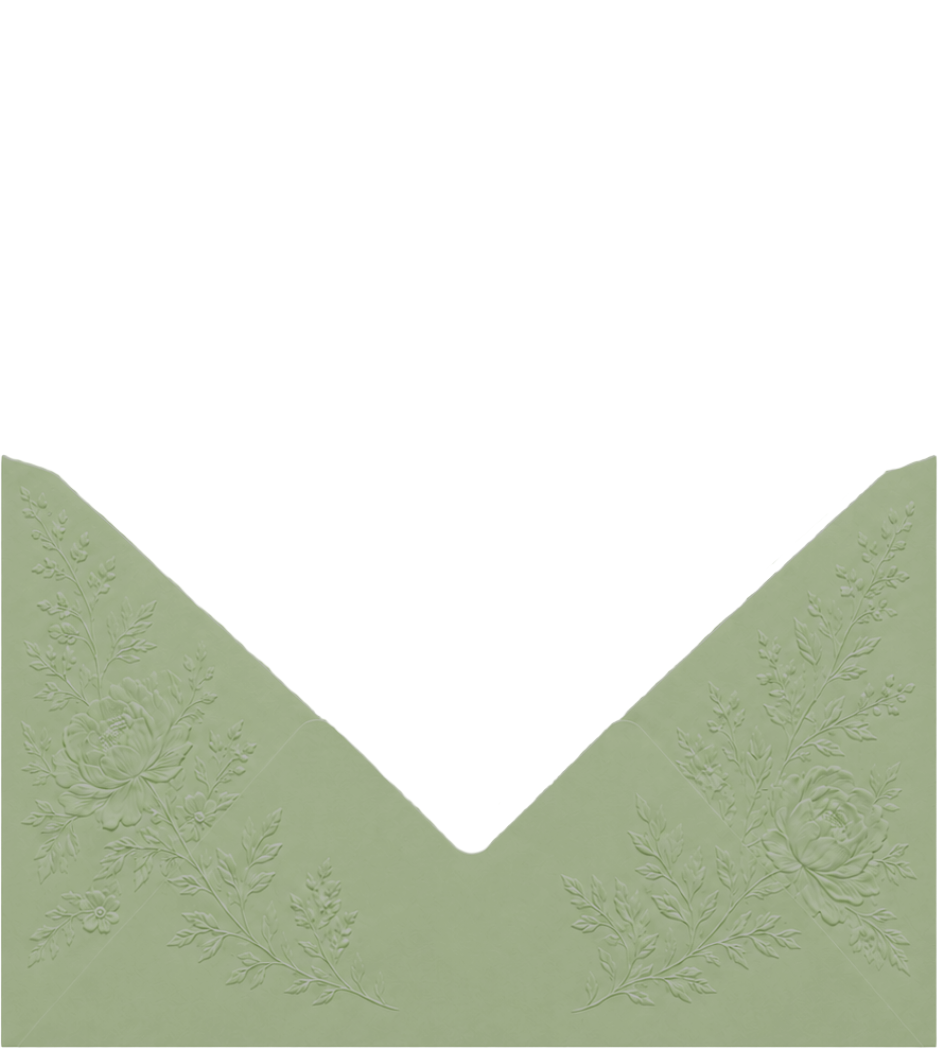
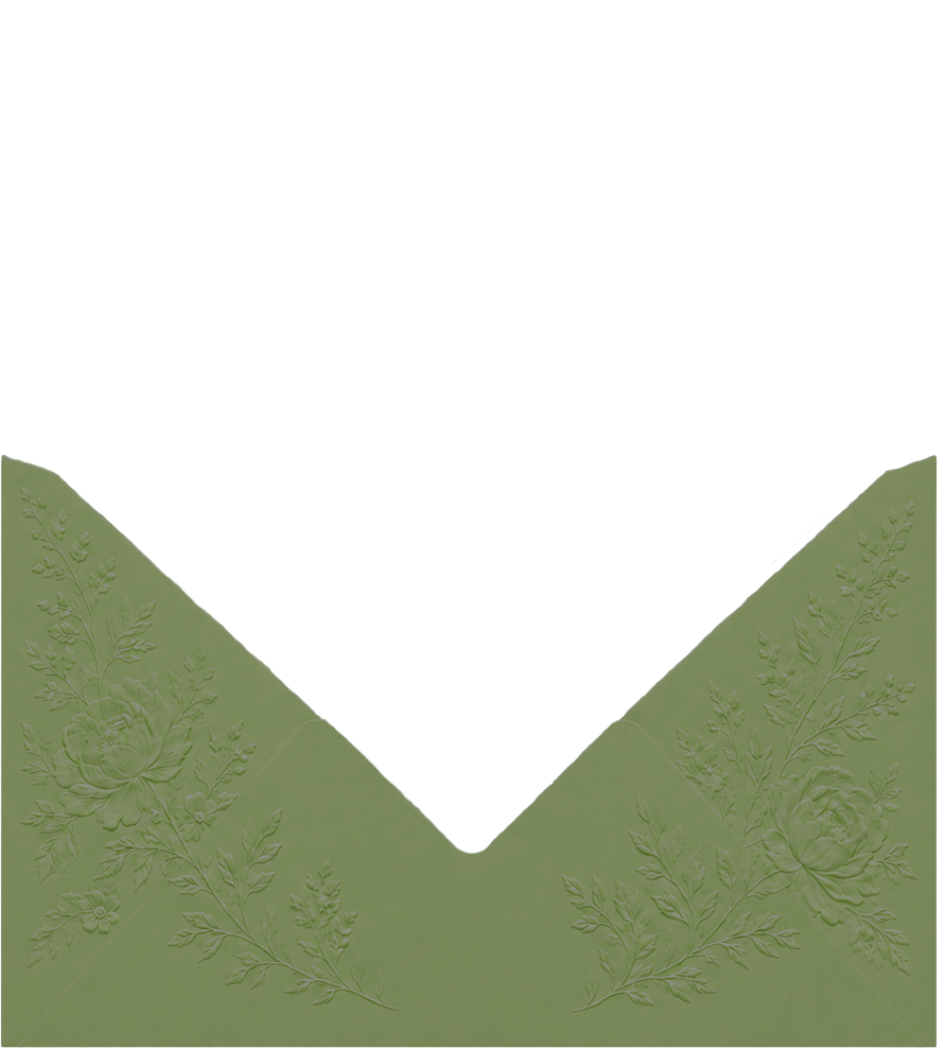
Take the envelope down to olive
Olive is darker AND yellower, so the hue moves too, not just the value:
83deg -> 79deg, saturation x1.6 and value x0.57 of the blush source,
landing at ~#7a895b. Re-run from the originals again rather than stacking
onto the previous pass. The hue is now a parameter of the recolour script
alongside saturation and value.

Bump the envelope URLs to ?v=4.

The hint's contrast flips back the other way at this darkness: on phones,
where the envelope covers the screen, white now reads at 3.8:1 against it
while ink manages 3.0:1 and the original sage only 1.7:1. So white, with
a shadow behind it — the raw ratio doesn't capture how much an outline
buys at that size. Landscape still keeps the sage, since the hint sits
below the envelope on cream there.

diff --git a/css/save-the-date.css b/css/save-the-date.css
@@ -204,16 +204,16 @@ body.is-ready .petals { opacity: 1; }
    move it up to .stage, which owns the perspective. */
 .env__back  {
   z-index: 1;
-  background-image: image-set(url(../assets/env-back.webp?v=3)  type("image/webp"), url(../assets/env-back.png?v=3)  type("image/png"));
+  background-image: image-set(url(../assets/env-back.webp?v=4)  type("image/webp"), url(../assets/env-back.png?v=4)  type("image/png"));
   filter: drop-shadow(0 7px 14px rgba(84, 64, 58, 0.26));
 }
-.env__front { z-index: 3; background-image: image-set(url(../assets/env-front.webp?v=3) type("image/webp"), url(../assets/env-front.png?v=3) type("image/png")); }
+.env__front { z-index: 3; background-image: image-set(url(../assets/env-front.webp?v=4) type("image/webp"), url(../assets/env-front.png?v=4) type("image/png")); }
 
 /* The flap is authored in the OPEN (up) position; flipped down about its hinge
    (y≈43.4% of the piece) it covers the pocket = closed. One image, both faces. */
 .env__flap {
   z-index: 4;
-  background-image: image-set(url(../assets/env-flap.webp?v=3) type("image/webp"), url(../assets/env-flap.png?v=3) type("image/png"));
+  background-image: image-set(url(../assets/env-flap.webp?v=4) type("image/webp"), url(../assets/env-flap.png?v=4) type("image/png"));
   transform-origin: 50% 43.4%;
   /* the translateY is identity here, but it keeps the function list the same in
      all three states (closed / open / sliding) so each transition interpolates
@@ -490,11 +490,15 @@ body.is-ready .petals { opacity: 1; }
   .std__photo-img { object-position: center center; }
 
   /* The envelope covers the whole screen here, so "tap to open" sits ON it rather
-     than on the pale backdrop. Against the darker sage the sage text falls to
-     2.8:1; ink lands at 4.8:1. (White is worse still, 2.4:1 — the envelope is a
-     mid tone, so darker beats lighter.) Landscape keeps the sage: there the hint
-     sits below the envelope, on the cream. */
-  .opener__hint-text { color: var(--ink); }
+     than on the pale backdrop — and the olive is dark enough that the answer
+     flipped: white reads at 3.8:1 where ink manages 3.0:1 and the original sage
+     only 1.7:1. The shadow does the rest; the raw ratio doesn't capture how much
+     an outline buys at this size. Landscape keeps the sage — there the hint sits
+     below the envelope, on the cream. */
+  .opener__hint-text {
+    color: #fff;
+    text-shadow: 0 1px 3px rgba(28, 36, 18, 0.55);
+  }
 
   /* TYPE STEPS UP. Every size on the card is in cqw, i.e. relative to the card's
      WIDTH — and a phone card is ~390px where a monitor's is ~620px, so the scale

diff --git a/save-the-date.html b/save-the-date.html
@@ -41,7 +41,7 @@
   <!-- Bespoke save-the-date theme (mirrors the locked sage + blush palette).
        The ?v= query is a cache buster — bump it whenever the CSS or JS changes so
        browsers pick the new file up without a hard refresh. -->
-  <link rel="stylesheet" href="css/save-the-date.css?v=34" />
+  <link rel="stylesheet" href="css/save-the-date.css?v=35" />
 
   <!-- No-JS fallback: hide the envelope pieces so the sandwiched letter shows. -->
   <noscript>

diff --git a/README.md b/README.md
@@ -34,7 +34,7 @@ wedding stationery and to be hosted for free on **GitHub Pages**.
 
 - **`index.html`** — the full site: story, itinerary, locations, RSVP, FAQ.
 - **`save-the-date.html`** — a cinematic *save-the-date* on **one non-scrolling
-  screen**. Guests land on the couple's **own sage floral envelope, sized full
+  screen**. Guests land on the couple's **own olive floral envelope, sized full
   bleed**: it's deliberately oversized so its body covers the whole viewport — edge
   to edge on a desktop, and on a phone a **deep zoom that leaves only the middle of
   the envelope on screen**. The envelope is built from three layered pieces
@@ -177,7 +177,7 @@ Until then, treat any "submitted" RSVP as **not recorded**.
   cropped to a shared coordinate space and compressed for the web. No third-party
   license applies.
 
-  They were supplied in **blush** and have been **recoloured to sage** (~`#a0ae8b`).
+  They were supplied in **blush** and have been **recoloured to a deep olive** (~`#7a895b`).
   The embossing is carried entirely in luminance, so the recolour pins the hue and
   rescales saturation and value, leaving every petal and fern untouched. The blush
   originals are in git history if they're ever wanted back. The envelope URLs carry
